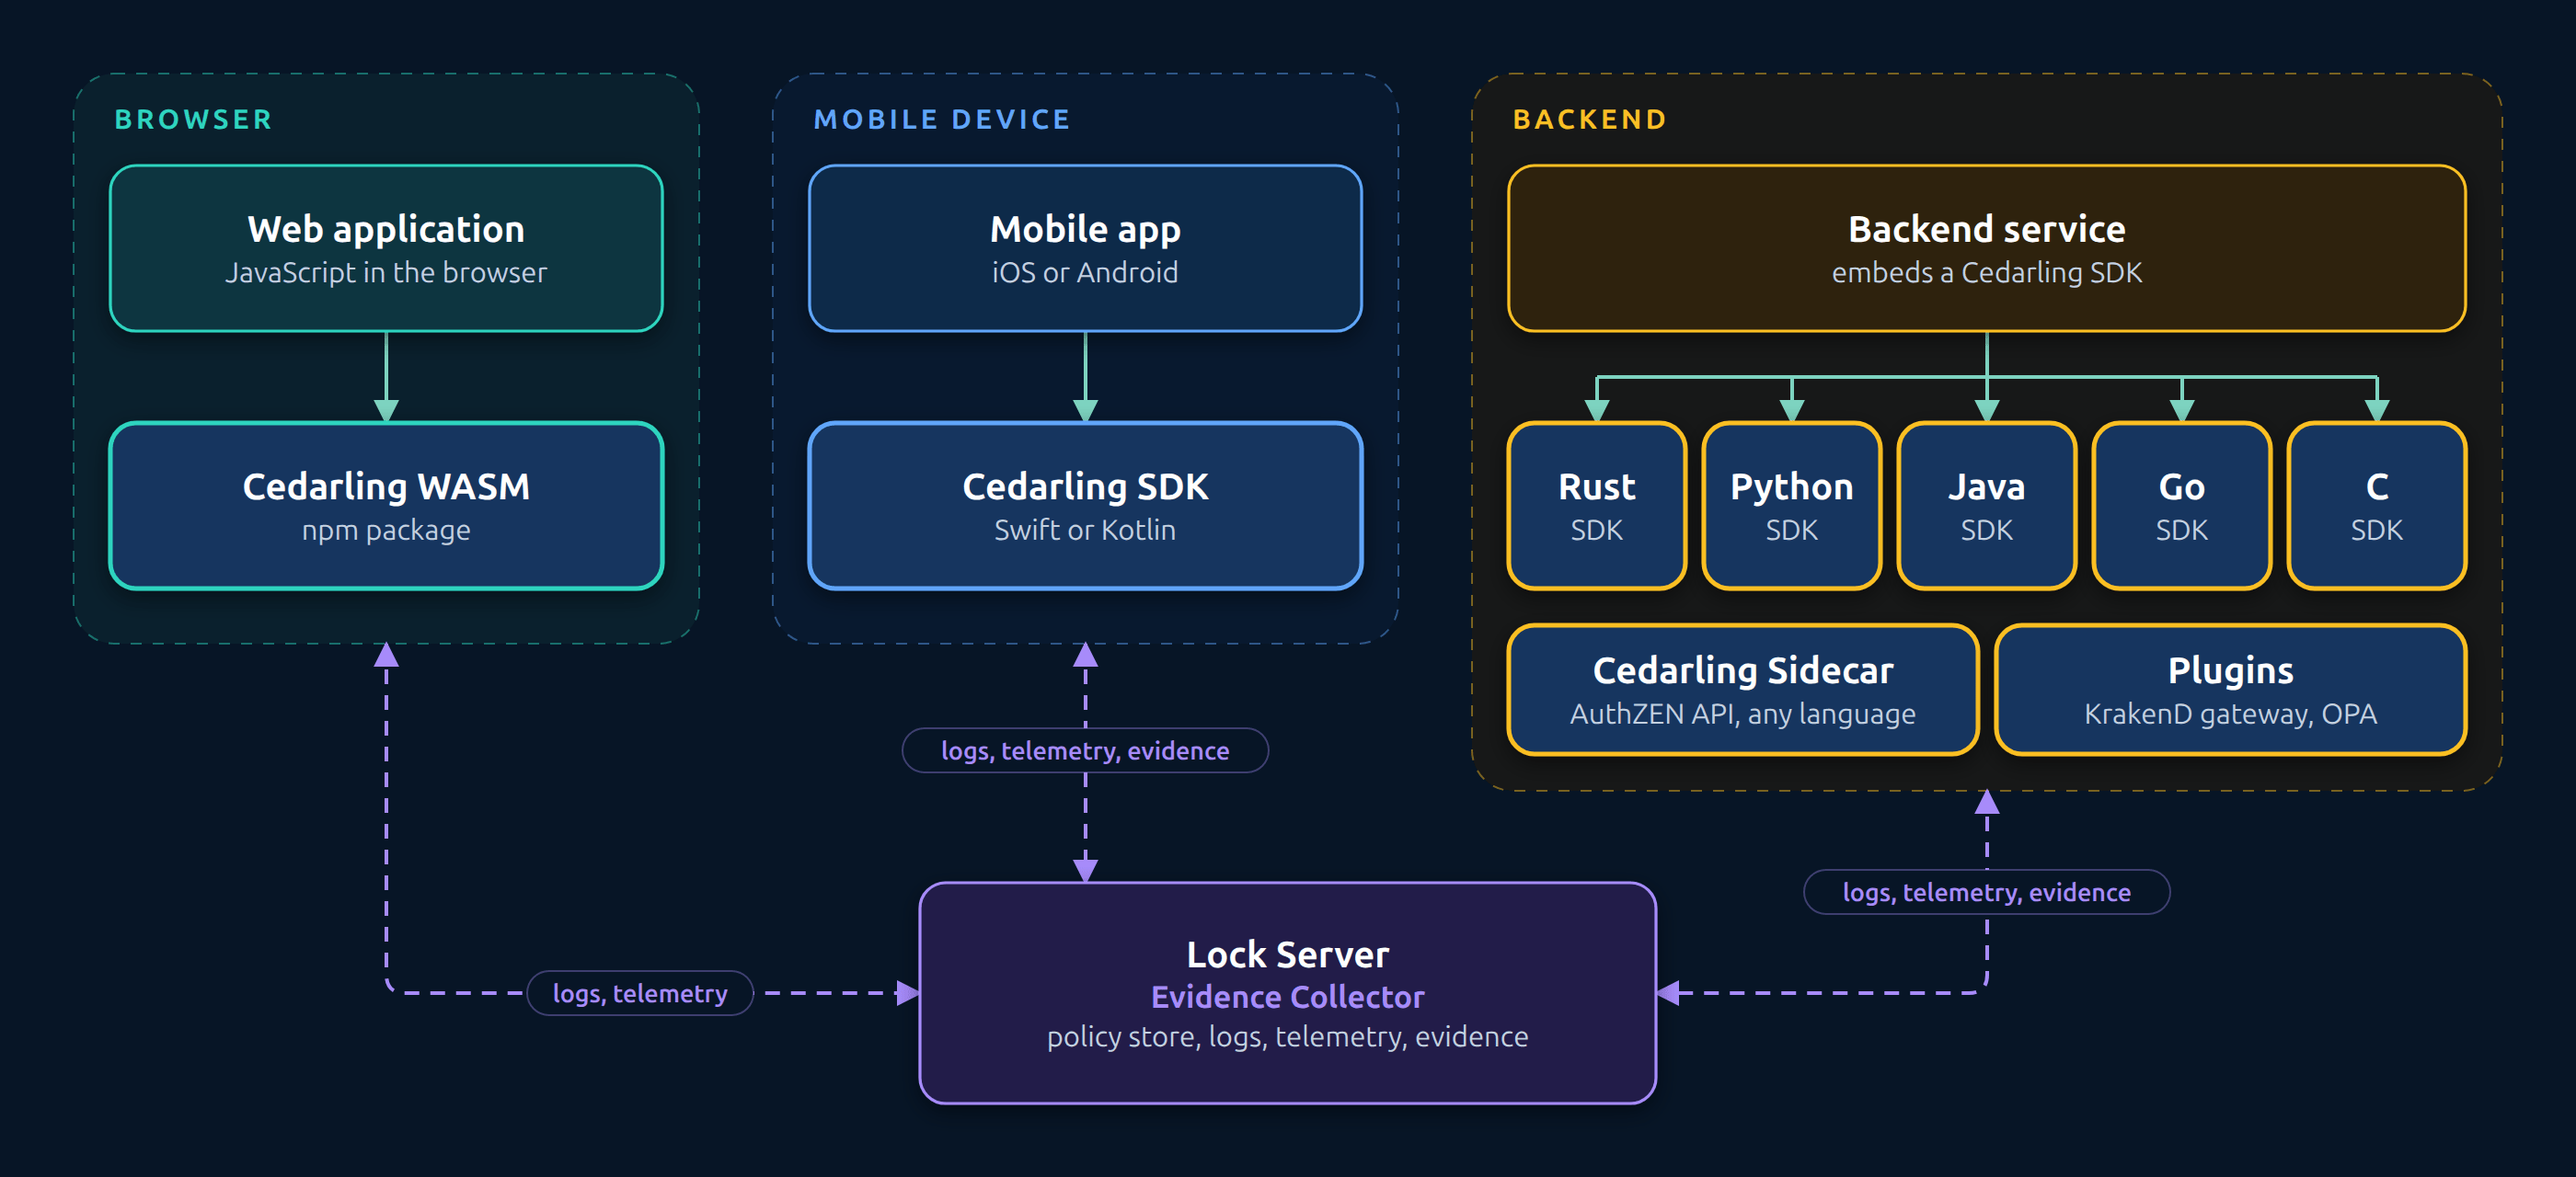
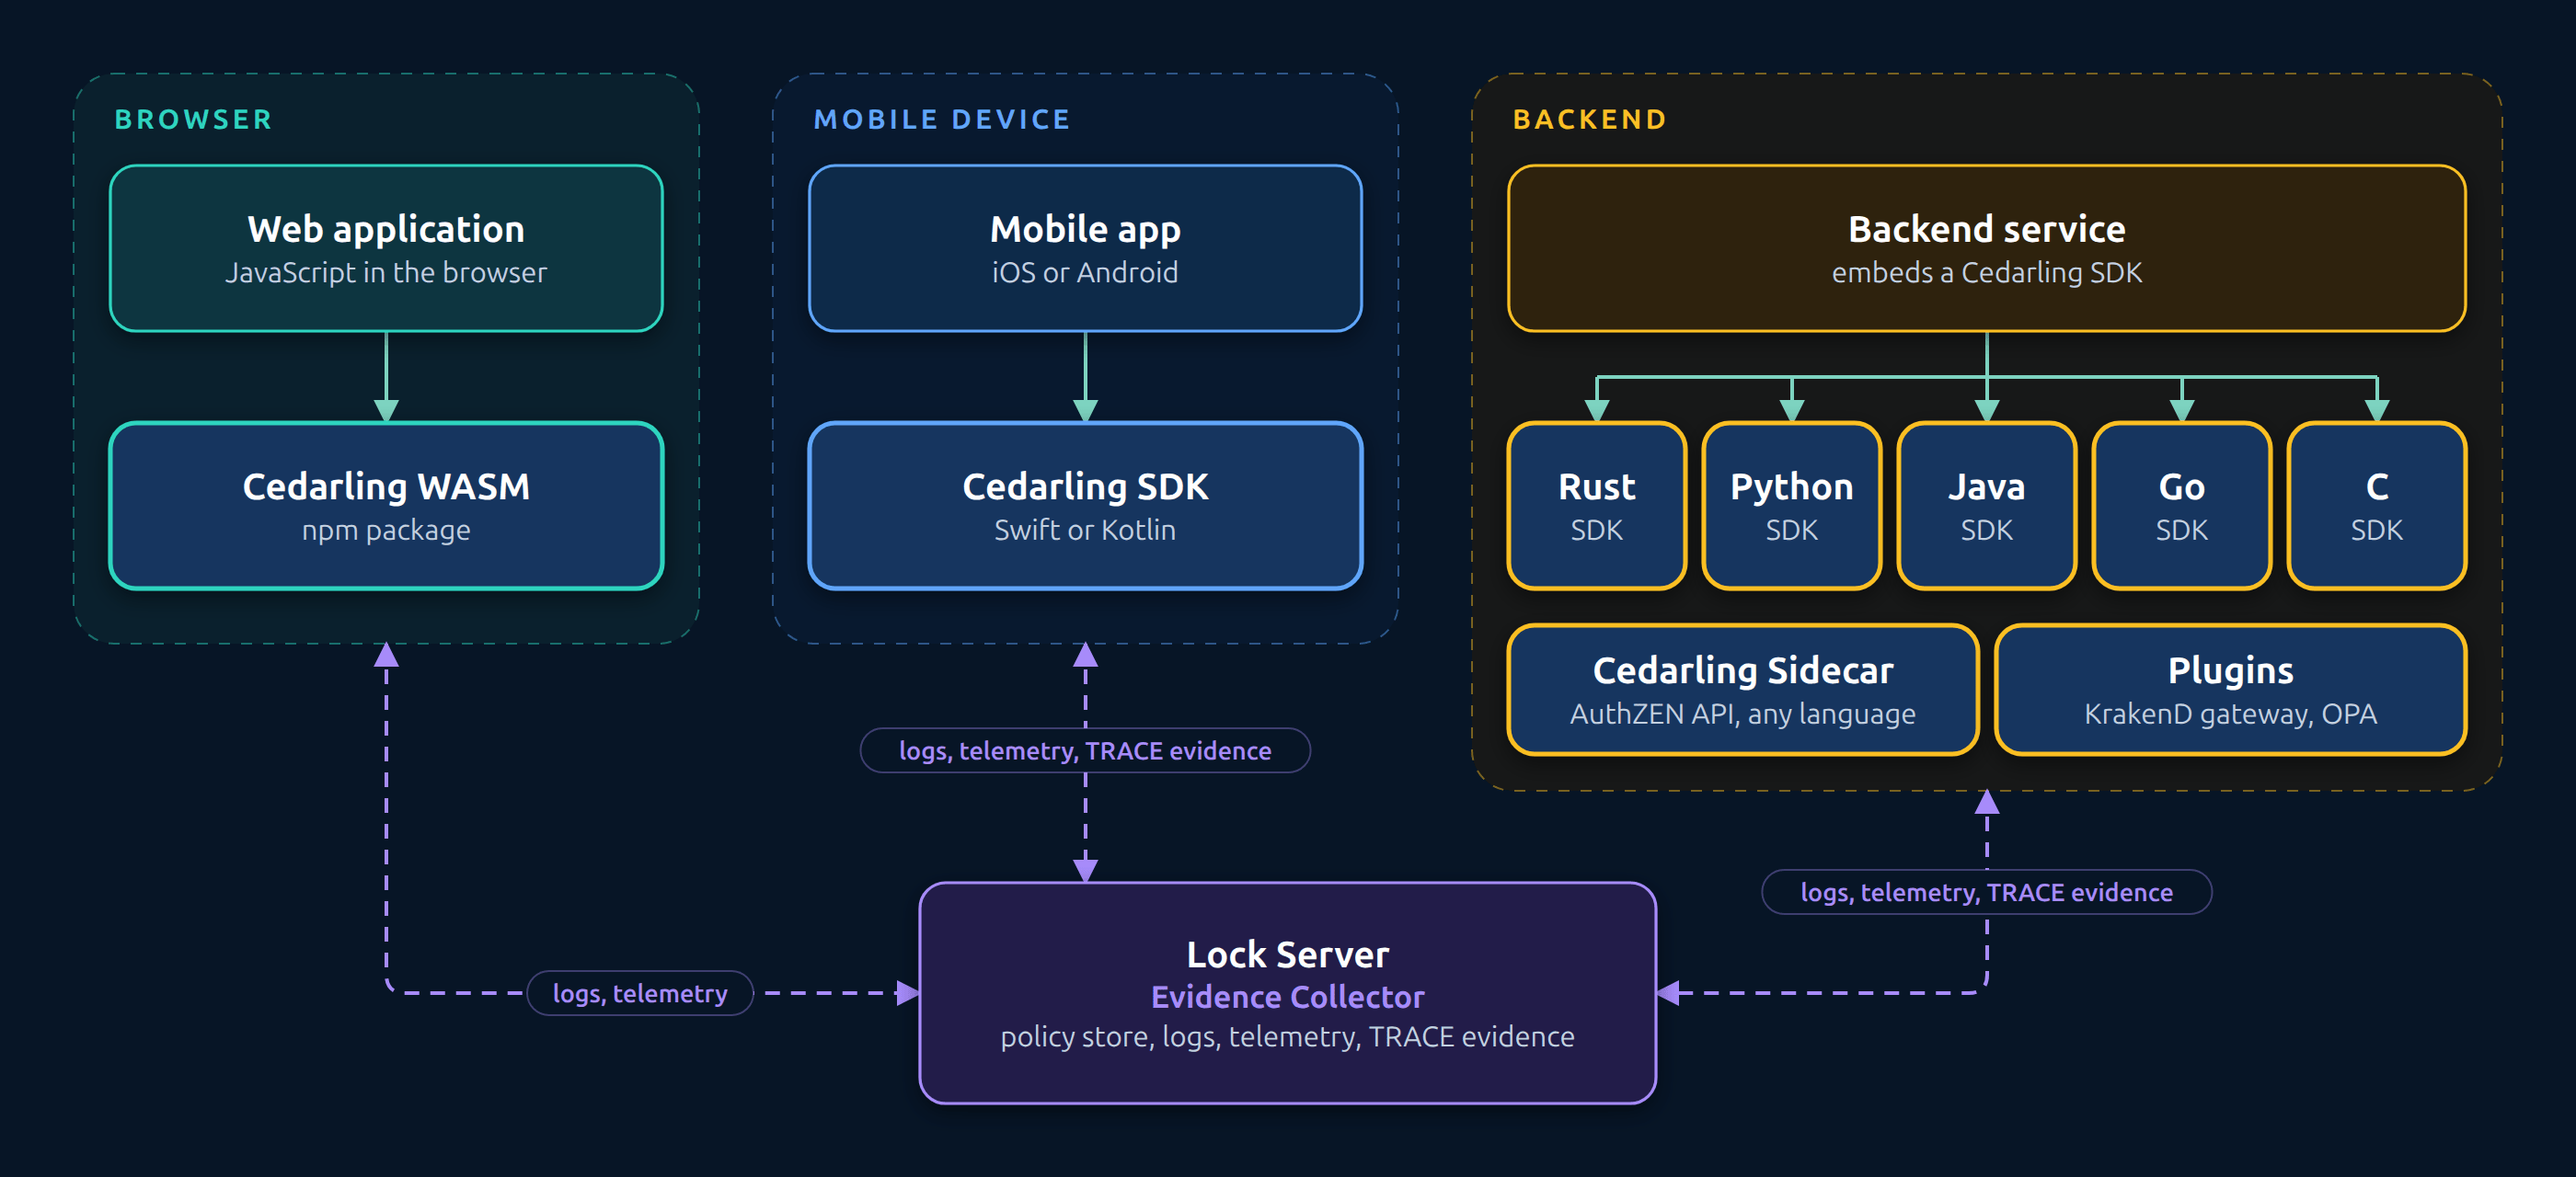
docs(jans-cedarling): name TRACE evidence in diagrams

Changed region(s): [[0.3729, 0.875, 0.6214, 0.9062], [0.6836, 0.75, 0.87, 0.7812], [0.3418, 0.625, 0.4971, 0.6562]]

diff --git a/jans-cedarling/scripts/diagrams/components.py b/jans-cedarling/scripts/diagrams/components.py
@@ -28,8 +28,8 @@ DIAGRAM = {
         "builder": {"color": "blue", "box": (720, 470, 250, 96),
                     "title": "Entity & Context Builder",
                     "desc": ["principals, resource,", "context.tokens, context.data"]},
-        "logs": {"color": "blue", "box": (380, 620, 230, 76),
-                 "title": "Observability", "desc": ["logs, telemetry, evidence"]},
+        "logs": {"color": "blue", "box": (380, 620, 230, 96),
+                 "title": "Observability", "desc": ["logs, telemetry,", "TRACE evidence"]},
         "cedar": {"color": "blue", "box": (720, 620, 250, 76), "emphasis": True,
                   "title": "Cedar Engine", "desc": ["Allow / Deny, diagnostics"]},
 
@@ -39,7 +39,7 @@ DIAGRAM = {
                     "title": "Trusted issuers", "desc": ["OpenID config, JWKS,", "Status List"]},
         "lock": {"color": "violet", "box": (1100, 584, 230, 130),
                  "title": "Lock Server", "role": "Evidence Collector",
-                 "desc": ["policy store, logs,", "health, telemetry,", "evidence"]},
+                 "desc": ["policy store, logs,", "health, telemetry,", "TRACE evidence"]},
     },
     # Edges listed later are drawn on top; the halo on the issuers edge cuts a
     # gap into the policies line it crosses.
@@ -61,8 +61,8 @@ DIAGRAM = {
         {"points": [(845, 566), (845, 620)], "label": "entities, context", "at": (845, 593)},
         {"points": [(720, 658), (610, 658)], "label": "decision", "at": (665, 636)},
         {"points": [(380, 658), (290, 658)]},
-        {"points": [(495, 696), (495, 752), (1215, 752), (1215, 714)],
-         "label": "logs, telemetry, evidence", "at": (860, 752),
+        {"points": [(495, 716), (495, 752), (1215, 752), (1215, 714)],
+         "label": "logs, telemetry, TRACE evidence", "at": (860, 752),
          "color": "violet", "style": "dashed"},
         {"points": [(1330, 658), (1378, 658), (1378, 62), (900, 62), (900, 140)],
          "label": "policy store", "at": (1150, 62), "color": "violet", "style": "dashed"},

diff --git a/jans-cedarling/scripts/diagrams/deployment.py b/jans-cedarling/scripts/diagrams/deployment.py
@@ -38,7 +38,7 @@ DIAGRAM = {
 
         "lock": {"color": "violet", "box": (500, 480, 400, 120),
                  "title": "Lock Server", "role": "Evidence Collector",
-                 "desc": ["policy store, logs, telemetry, evidence"]},
+                 "desc": ["policy store, logs, telemetry, TRACE evidence"]},
     },
     "edges": [
         {"points": [(210, 180), (210, 230)]},
@@ -53,8 +53,8 @@ DIAGRAM = {
         {"points": [(210, 350), (210, 540), (500, 540)],
          "label": "logs, telemetry", "at": (355, 540), "color": "violet", "style": "dashed", "both": True},
         {"points": [(590, 350), (590, 480)],
-         "label": "logs, telemetry, evidence", "at": (590, 415), "color": "violet", "style": "dashed", "both": True},
+         "label": "logs, telemetry, TRACE evidence", "at": (590, 415), "color": "violet", "style": "dashed", "both": True},
         {"points": [(1080, 430), (1080, 540), (900, 540)],
-         "label": "logs, telemetry, evidence", "at": (1080, 485), "color": "violet", "style": "dashed", "both": True},
+         "label": "logs, telemetry, TRACE evidence", "at": (1080, 485), "color": "violet", "style": "dashed", "both": True},
     ],
 }
